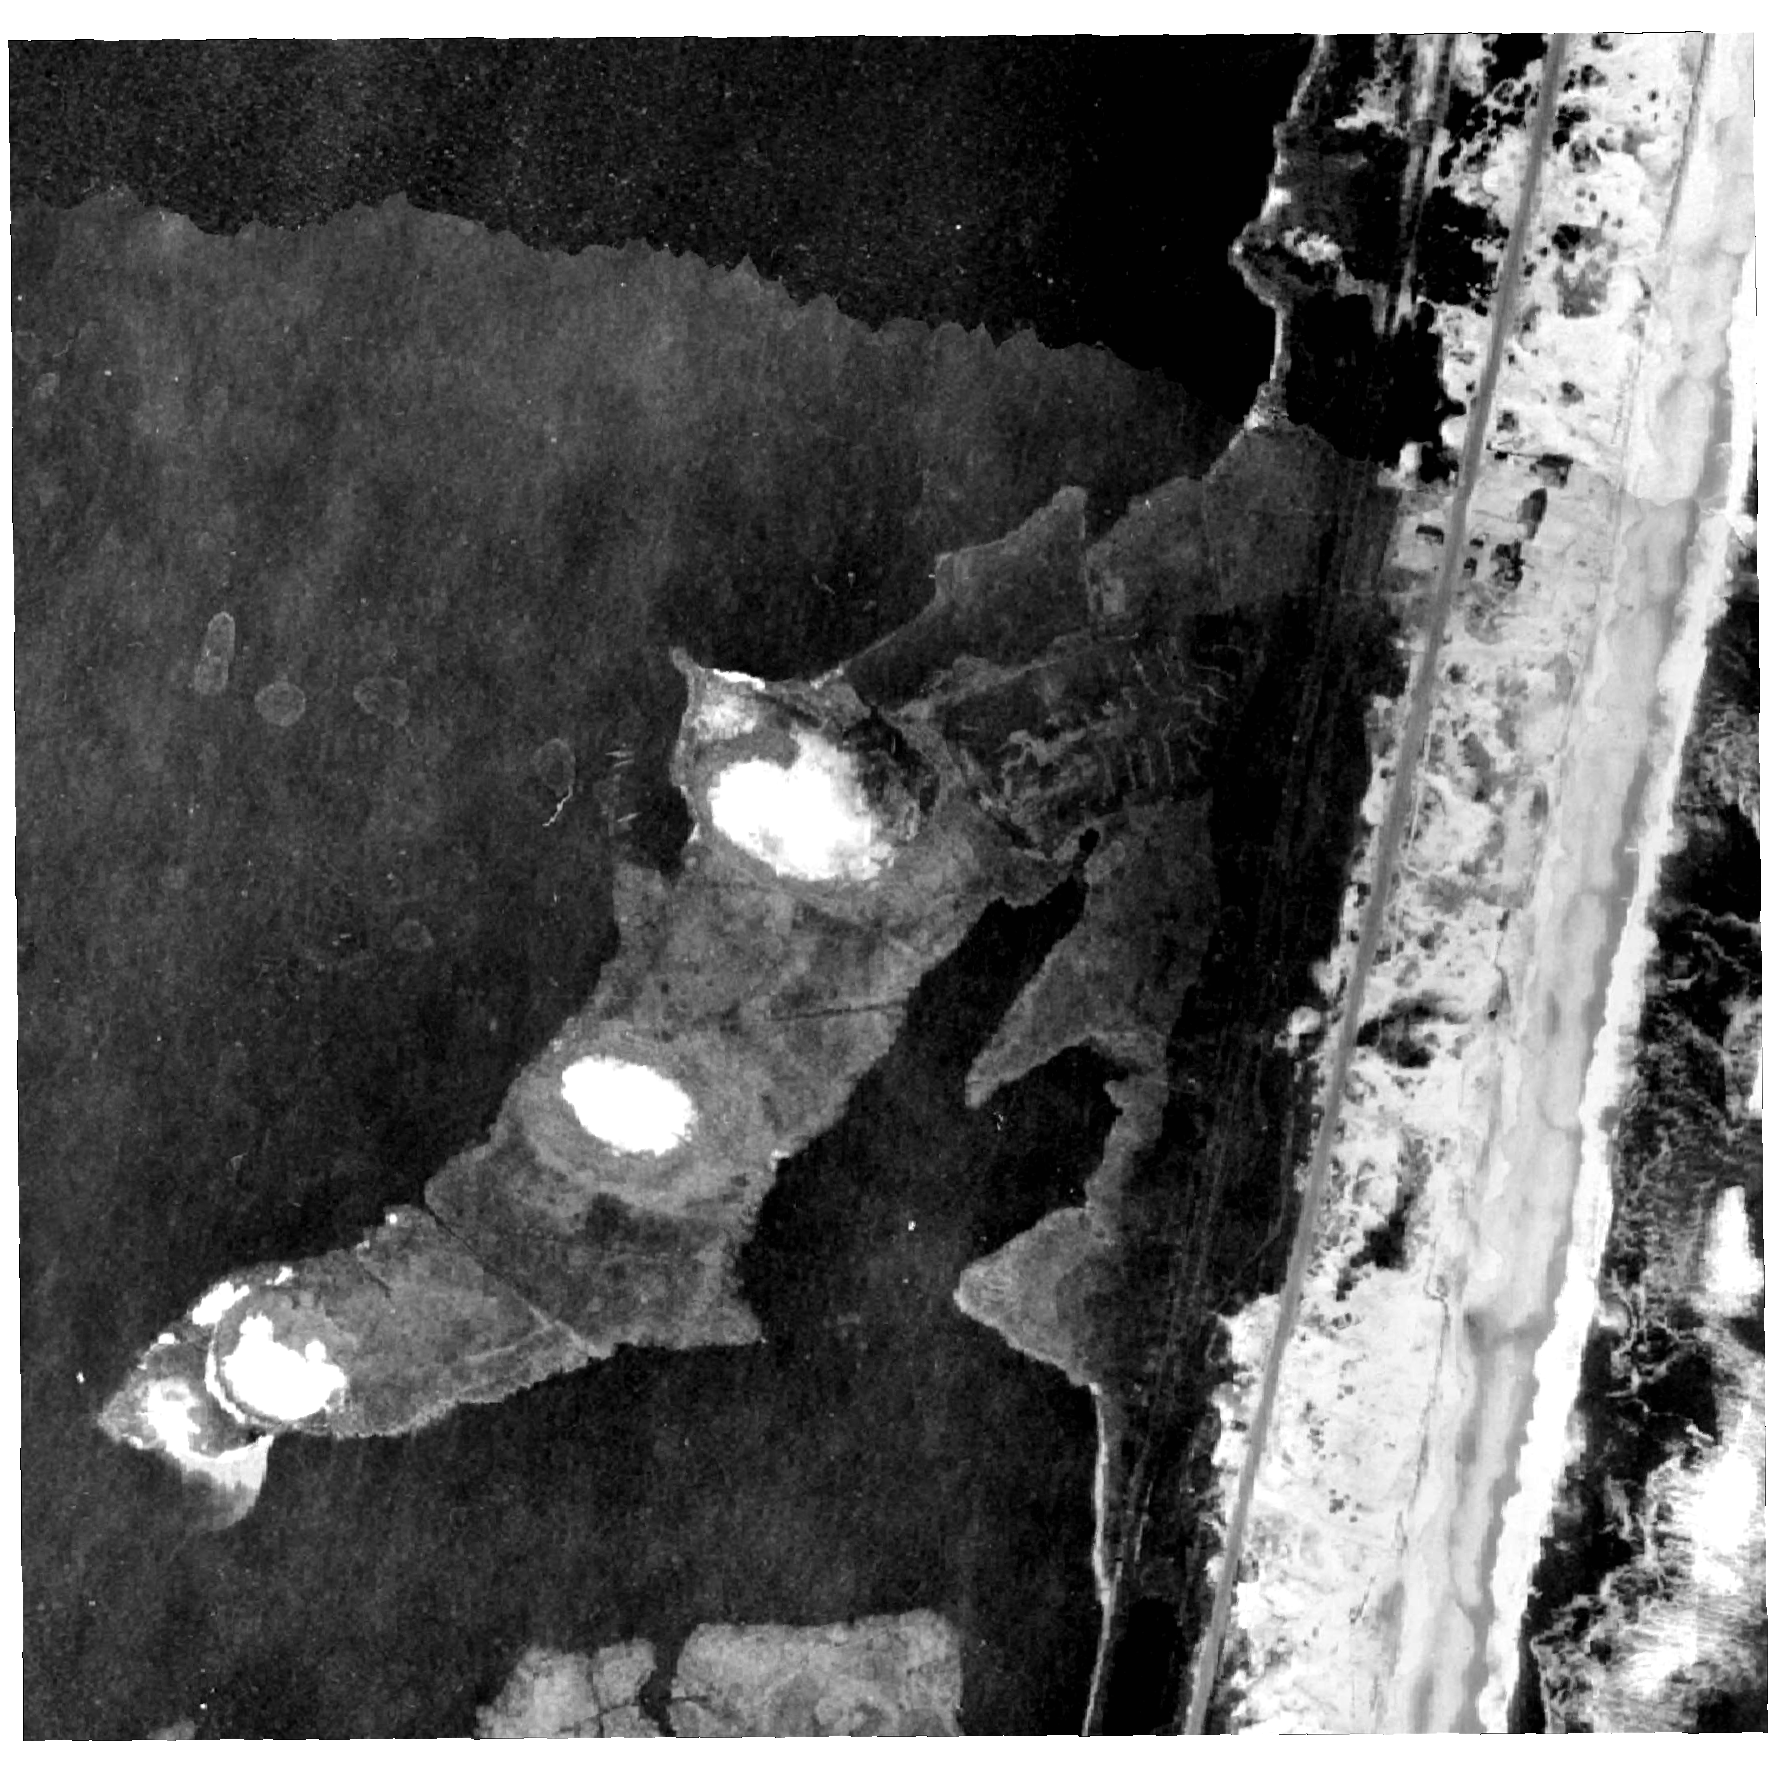
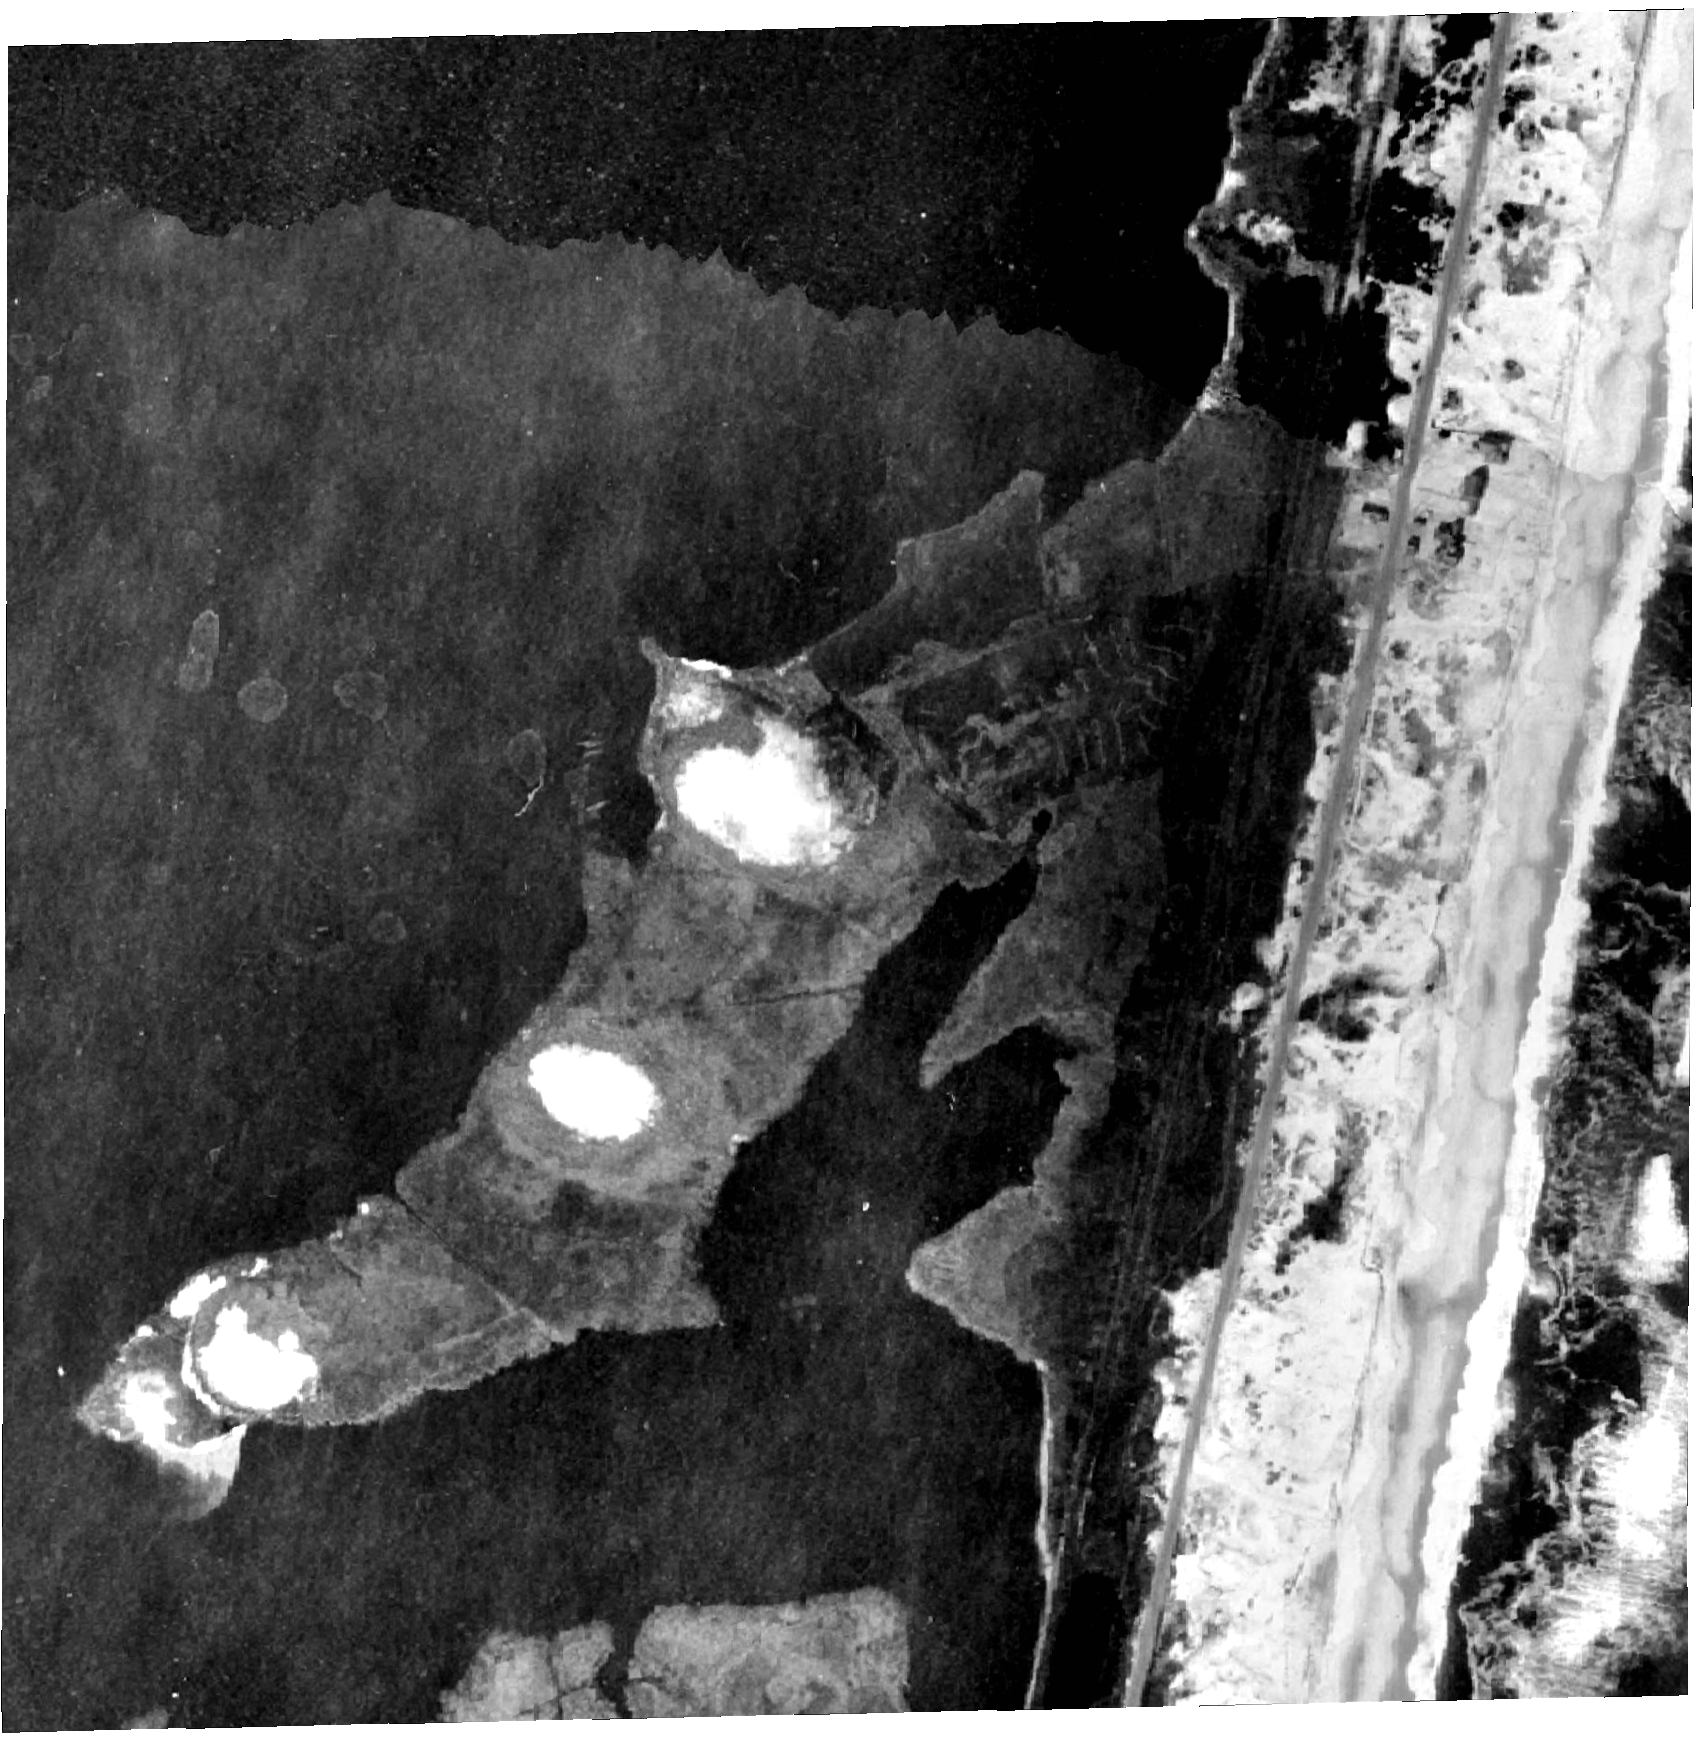
Add files via upload

diff --git a/index.html b/index.html
@@ -171,7 +171,7 @@
         map.createPane('pane_USArmy1920Revised_13');
         map.getPane('pane_USArmy1920Revised_13').style.zIndex = 413;
         var img_USArmy1920Revised_13 = 'data/USArmy1920Revised_13.png';
-        var img_bounds_USArmy1920Revised_13 = [[40.021169530622295,-74.06381554830966],[40.030886730377055,-74.05109765859159]];
+        var img_bounds_USArmy1920Revised_13 = [[40.02122237472168,-74.06340452297954],[40.03076167977537,-74.05126625234278]];
         var layer_USArmy1920Revised_13 = new L.imageOverlay(img_USArmy1920Revised_13,
                                               img_bounds_USArmy1920Revised_13,
                                               {pane: 'pane_USArmy1920Revised_13'});
